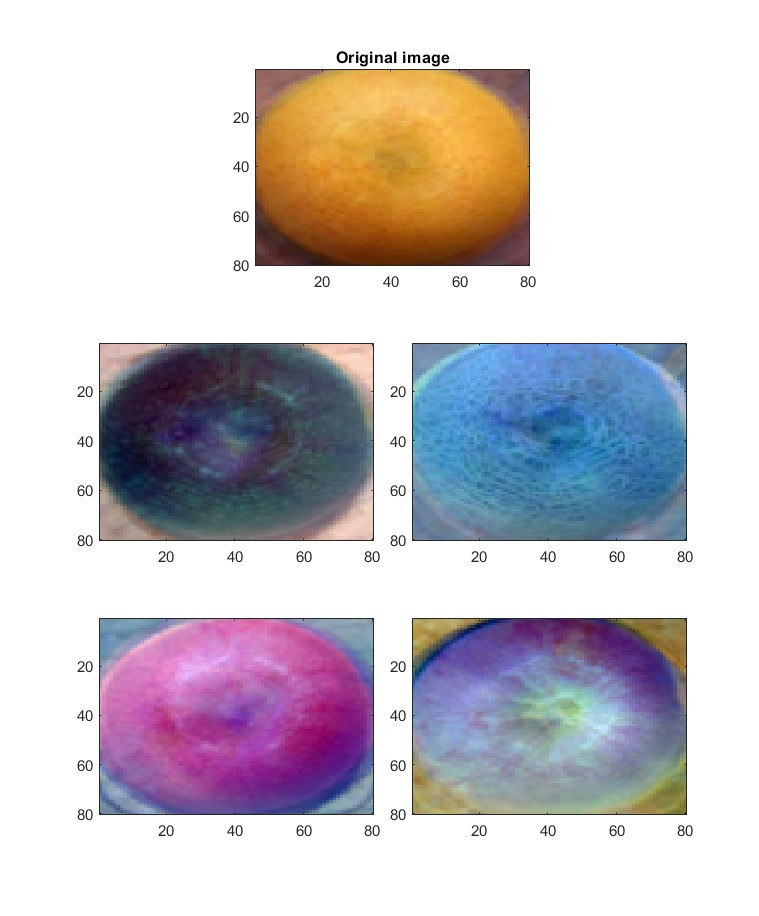
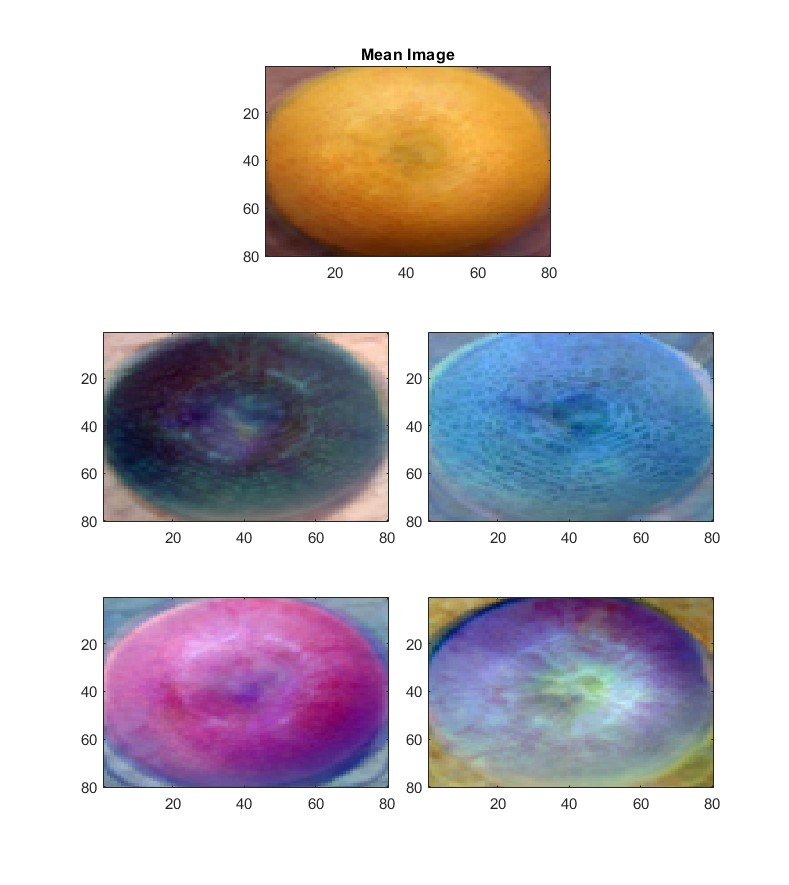
questions done

diff --git a/code/Q4/q4.m b/code/Q4/q4.m
@@ -28,5 +28,8 @@ principle_eigenvector = V(:,ind(1,1));
 imagesc(reshape(mean_vector,28,28)-reshape(principle_eigenvector*sqrt(principle_eigenval),28,28));
 imagesc(reshape(mean_vector,28,28));
 imagesc(reshape(mean_vector,28,28)+reshape(principle_eigenvector*sqrt(principle_eigenval),28,28));
+imshow(uint8(reshape(mean_vector,28,28)-reshape(principle_eigenvector*sqrt(principle_eigenval),28,28)));
+imshow(uint8(reshape(mean_vector,28,28)));
+imshow(uint8(reshape(mean_vector,28,28)+reshape(principle_eigenvector*sqrt(principle_eigenval),28,28)));
 
 

diff --git a/code/Q6/q6.m b/code/Q6/q6.m
@@ -17,13 +17,17 @@ mean_matrix = ones(19200,16);
 cov_matrix = (data - mean_matrix)*((data-mean_matrix)')/15;
 H = (data-mean_matrix)/sqrt(15);
 [V,~] = eigs(H*H',4);
+subplot(3,4, [2 3])
 image(rescale(reshape(mean_vector,80,80,3),0,1))
+title 'Mean Image'
 for i=1:4
-subplot(2,2,i)
+subplot(3,4,[3+2*i 4+2*i])
 image(rescale(reshape(V(:,i),80,80,3),0,1))
 end
 subplot(1,1,1)
 [V,D] = eigs(H*H',10);
 [d,ind] = sort(abs(diag(D)));
 plot(d,'-')
-
+xlabel 'number of eigenvalues'
+ylabel 'Eigenvalues'
+title 'Top 10 Eigenvalues'

diff --git a/code/Q5/q5.m b/code/Q5/q5.m
@@ -30,5 +30,7 @@ Projection = ((data_matrix-mean_matrix).')*V_compressed;
 Reprojection = (Projection * V_compressed.').';
 imagesc(reshape(digits(:,:,1),28,28));
 imagesc(reshape(Reprojection(:,1),28,28));
+imshow((reshape(digits(:,:,1),28,28)));
+imshow((reshape(Reprojection(:,1),28,28)));
 
 
